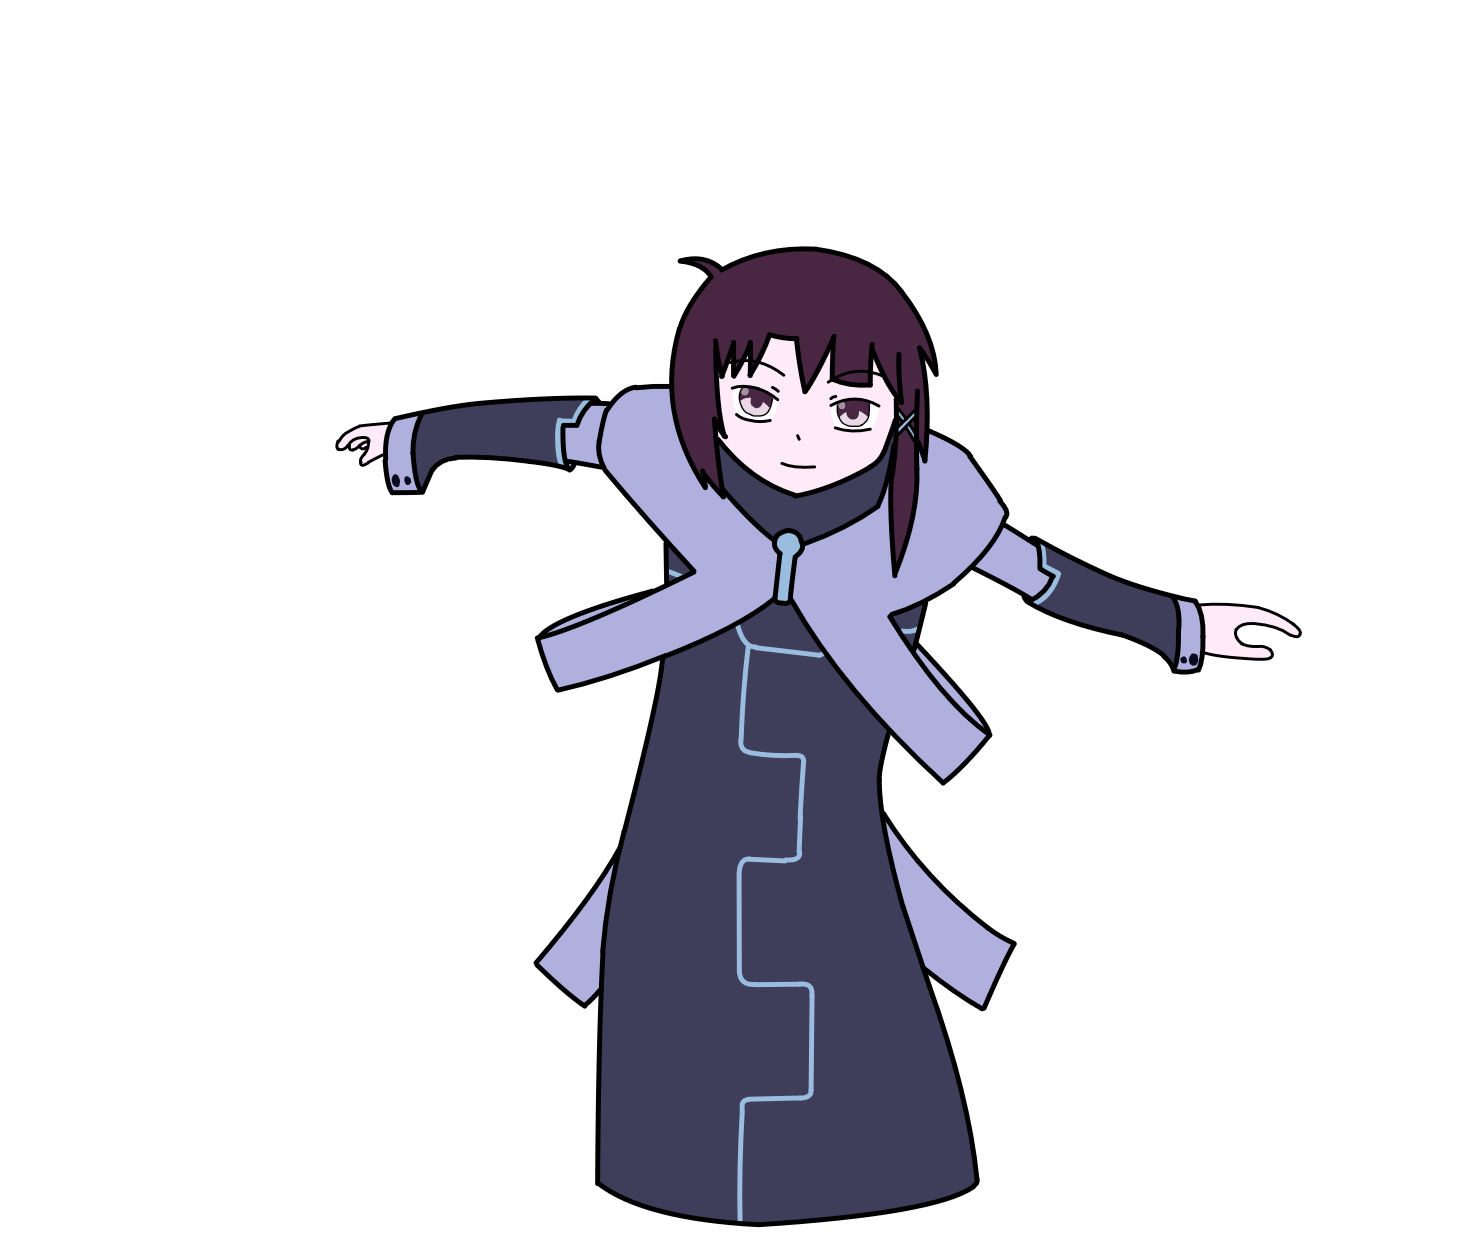
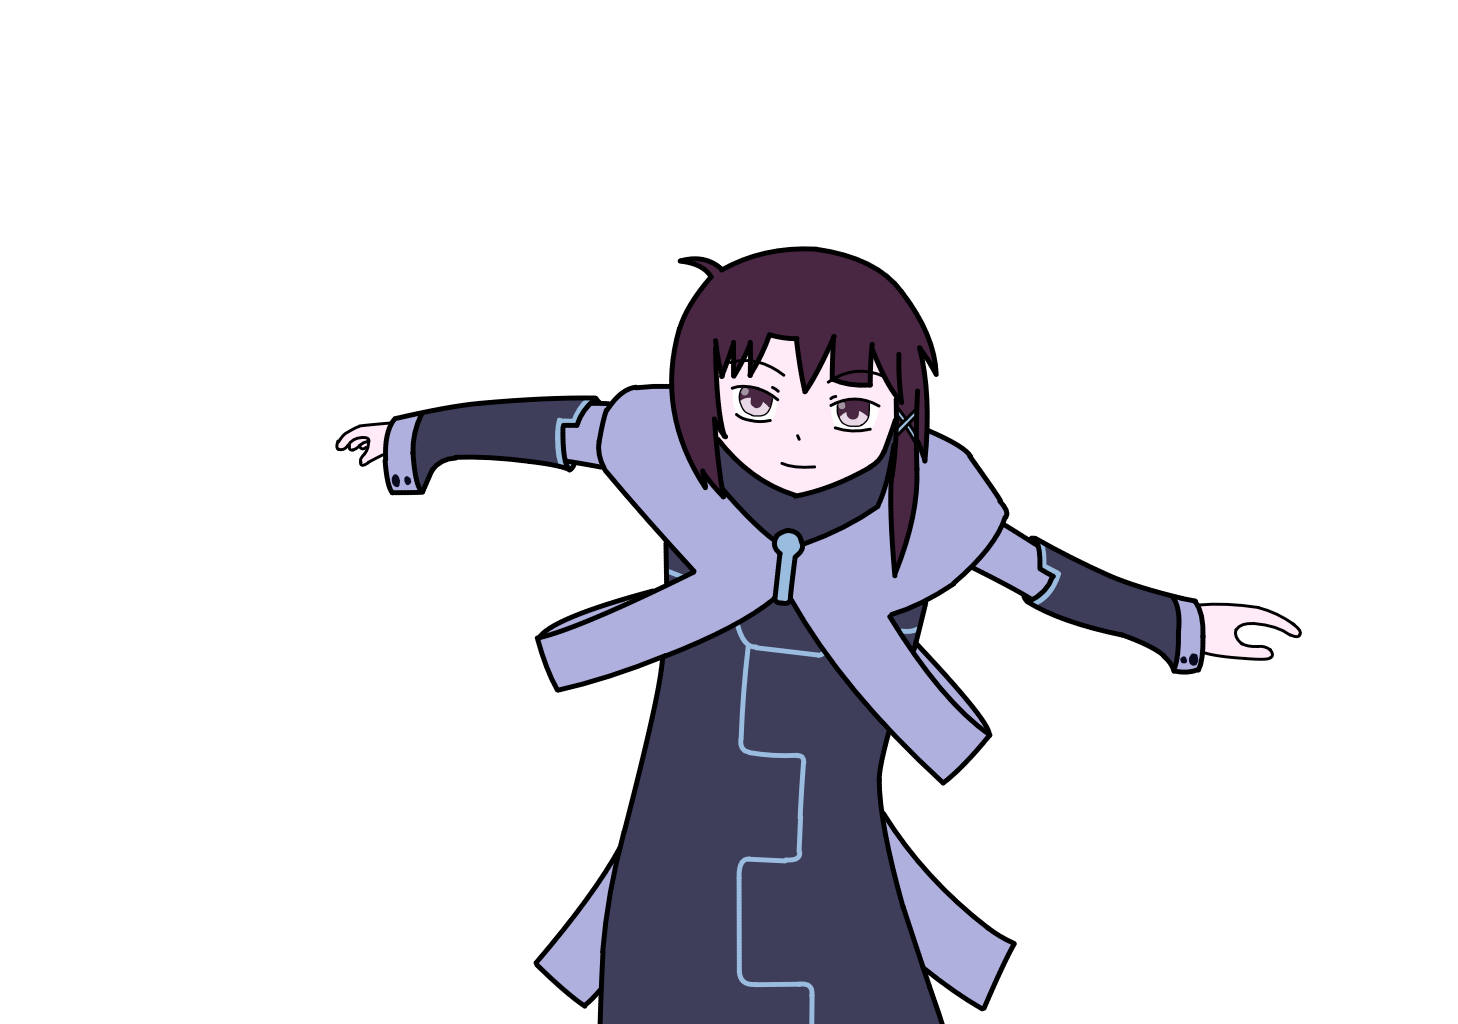
v0.0.20 画像サイズ調整等

Changed region(s): [[0.216, 0.1875, 0.8951, 1.0]]

diff --git a/PersonaLauncher/PersonaLauncher/MainWindow.xaml b/PersonaLauncher/PersonaLauncher/MainWindow.xaml
@@ -5,29 +5,29 @@
         xmlns:mc="http://schemas.openxmlformats.org/markup-compatibility/2006"
         xmlns:local="clr-namespace:PersonaLauncher"
         mc:Ignorable="d"
-        Title="Persona Launcher ver 0.0.19" Height="600" Width="800"
-		
-		WindowStyle="SingleBorderWindow"
-		
-		Background="#111122"
-		ResizeMode="CanMinimize"
+        Title="Persona Launcher ver 0.0.20" Height="600" Width="800"
+        
+        WindowStyle="SingleBorderWindow"
+        
+        Background="#111122"
+        ResizeMode="CanMinimize"
         
         Closing="Window_Closing"
-		>
+        >
     <!--AllowsTransparency="True"-->
     <Canvas>
 
         <!---->
-		<local:Persona x:Name="Persona" Opacity="1" Height="691" Width="794"/>
+        <local:Persona x:Name="Persona" Opacity="1" Height="571" Width="794" MouseDown="Persona_Drag"/>
 
         <local:DataItem x:Name="Data0" Opacity="1" Visibility="Hidden" Height="120" Width="180" MouseLeftButtonUp="Data_Click" />
         <local:DataItem x:Name="Data1" Opacity="1" Visibility="Hidden" Height="120" Width="180" MouseLeftButtonUp="Data_Click" />
         <local:DataItem x:Name="Data2" Opacity="1" Visibility="Hidden" Height="120" Width="180" MouseLeftButtonUp="Data_Click" />
         <local:DataItem x:Name="Data3" Opacity="1" Visibility="Hidden" Height="120" Width="180" MouseLeftButtonUp="Data_Click" />
-	</Canvas>
+    </Canvas>
     
     <Window.Resources>
         <ResourceDictionary Source="Animation\AnimDic.xaml" />
-	</Window.Resources>
+    </Window.Resources>
 
 </Window>

diff --git a/PersonaLauncher/PersonaLauncher/Animation/AnimDic.xaml b/PersonaLauncher/PersonaLauncher/Animation/AnimDic.xaml
@@ -26,7 +26,19 @@
                                        Duration="00:00:01">
                 <DiscreteDoubleKeyFrame KeyTime="00:00:00" Value="330" />
             </DoubleAnimationUsingKeyFrames>
-            
+            <!--↓のような形で高さや幅を変えることも可能-->
+            <!--
+            <DoubleAnimationUsingKeyFrames Storyboard.Target="{Binding ElementName=Data0}"
+                                           Storyboard.TargetProperty="(Image.Height)"
+                                           Duration="00:00:01">
+                <DiscreteDoubleKeyFrame KeyTime="00:00:00" Value="500" />
+            </DoubleAnimationUsingKeyFrames>
+            <DoubleAnimationUsingKeyFrames Storyboard.Target="{Binding ElementName=Data0}"
+                                           Storyboard.TargetProperty="(Image.Width)"
+                                           Duration="00:00:01">
+                <DiscreteDoubleKeyFrame KeyTime="00:00:00" Value="500" />
+            </DoubleAnimationUsingKeyFrames>
+            -->
         </Storyboard>
         <!--データ1初期化-->
         <Storyboard>

diff --git a/PersonaLauncher/PersonaLauncher/DataItem.xaml.cs b/PersonaLauncher/PersonaLauncher/DataItem.xaml.cs
@@ -25,7 +25,7 @@ namespace PersonaLauncher
 	/// </summary>
 	public partial class DataItem : Grid
 	{
-        public string PathStr { get; set; } = "";
+        public string PathStr { get; private set; } = "";
 
 		public DataItem()
 		{
@@ -40,7 +40,7 @@ namespace PersonaLauncher
         {
             PathStr = filePath;
 
-            //ツールチップ設定
+            //ツールチップ(マウスをのせたときに出てくるやつ)設定
             string fileName = System.IO.Path.GetFileName(PathStr);
             ToolTip tt = new ToolTip();
             tt.Content = fileName;
@@ -88,11 +88,12 @@ namespace PersonaLauncher
             }
         }
 
+        //ファイル・ディレクトリの指定を解除
         public void Unselect()
         {
             PathStr = "";
             Storyboard sb = null;
-            sb = FindResource("DataHidden") as Storyboard;
+            sb = FindResource("DataHidden") as Storyboard;  //データ非表示
             if (sb != null)
             {
                 Storyboard.SetTarget(sb, this);
@@ -192,7 +193,7 @@ namespace PersonaLauncher
         //選択したファイル・ディレクトリを関連付けで実行
         private void StartWithAssociation(object sender, EventArgs e)
         {
-            if (PathStr != "" && (File.Exists(PathStr) || Directory.Exists(PathStr)))
+            if (PathStr != "" && IsValidPath())
             {
                 System.Diagnostics.Process process = System.Diagnostics.Process.Start(PathStr);
             }

diff --git a/PersonaLauncher/PersonaLauncher/Persona.xaml.cs b/PersonaLauncher/PersonaLauncher/Persona.xaml.cs
@@ -81,7 +81,7 @@ namespace PersonaLauncher
         //SetFileとSetDirectoryで選択解除を有効化する用 HeaderXを受け取ることを想定
         private void unselectEnable(MenuItem menuItem)
         {
-            if (menuItem != null && menuItem.Items != null && menuItem.Items.Count >= 2)
+            if (menuItem != null && menuItem.Items != null && menuItem.Items.Count > 2)
             {
                 MenuItem unselectMenu = (MenuItem)menuItem.Items[2];
                 if (unselectMenu.Header.ToString() == "選択解除")

diff --git a/PersonaLauncher/PersonaLauncher/MainWindow.xaml.cs b/PersonaLauncher/PersonaLauncher/MainWindow.xaml.cs
@@ -92,7 +92,14 @@ namespace PersonaLauncher
 		// 玲音をドラッグできるようにする
 		private void Persona_Drag(object sender, MouseButtonEventArgs e)
 		{
-			this.DragMove();
+            try
+            {
+                this.DragMove();
+            }
+            catch (Exception)
+            {
+                //左クリックでドラッグ中に右クリックするとエラー吐くのを握りつぶし
+            }
 		}
 
         public DataItem GetDataItem(string dataName)
